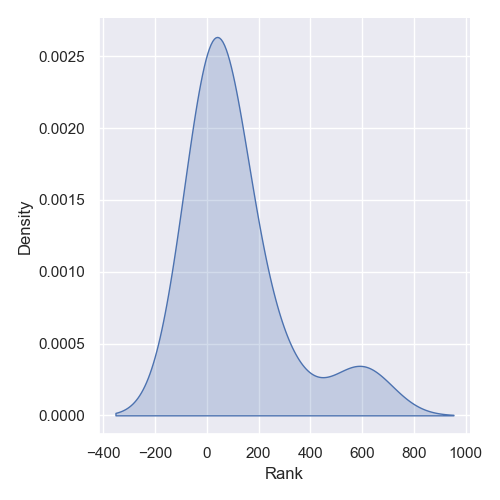
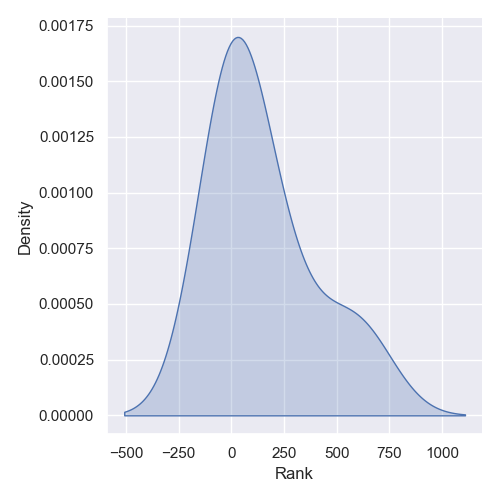
version final

diff --git a/gamesales_2019.py b/gamesales_2019.py
@@ -247,7 +247,7 @@ plt.show()
 #criterio de seleccion para tener la mayor probabilidad de ventas
 
 #shooter
-datos_shooter_final=datos_shooter_ESRB[((datos_shooter_ESRB['Publisher']=='Activision')|(datos_shooter_ESRB['Publisher']=='Electronic Arts'))&(datos_shooter_ESRB['ESRB_Rating']=='M')]
+datos_shooter_final=datos_shooter_ESRB[((datos_shooter_ESRB['Publisher']=='Activision'))&(datos_shooter_ESRB['ESRB_Rating']=='M')]
 
 #valor medio shooter
 print(datos_shooter_final['producido'].mean())
